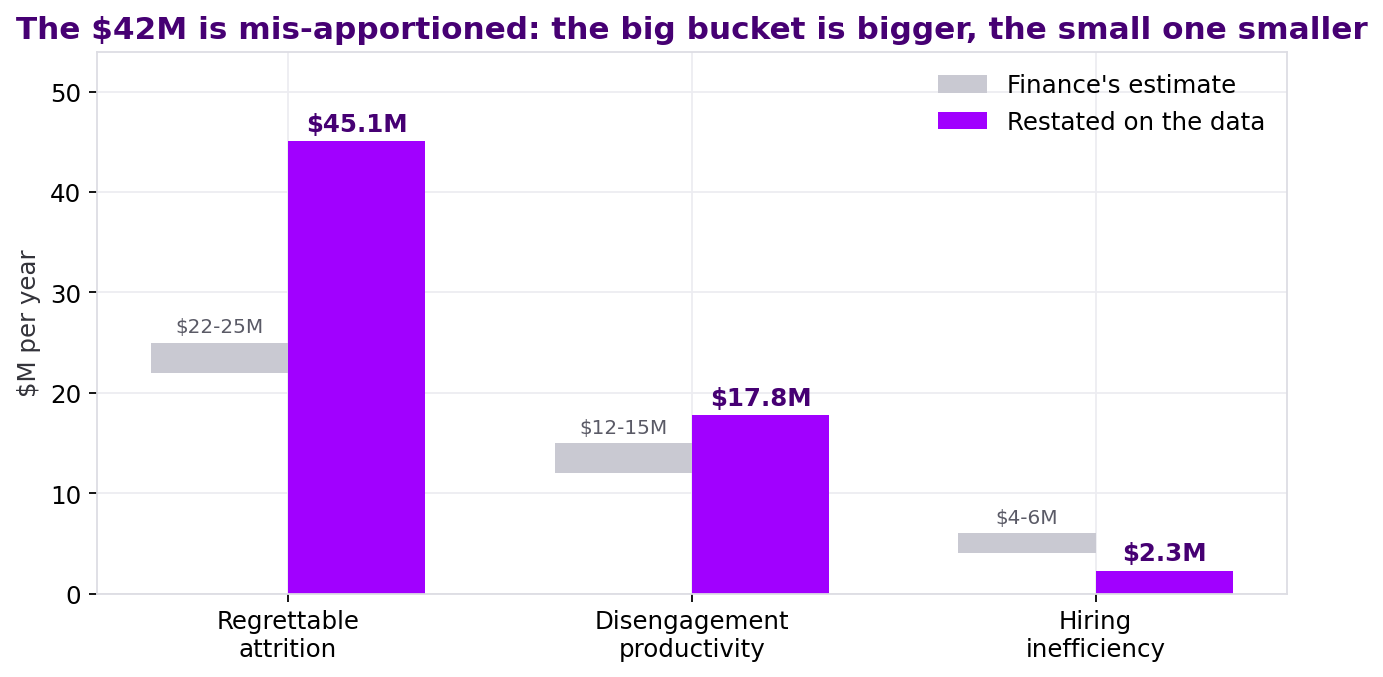
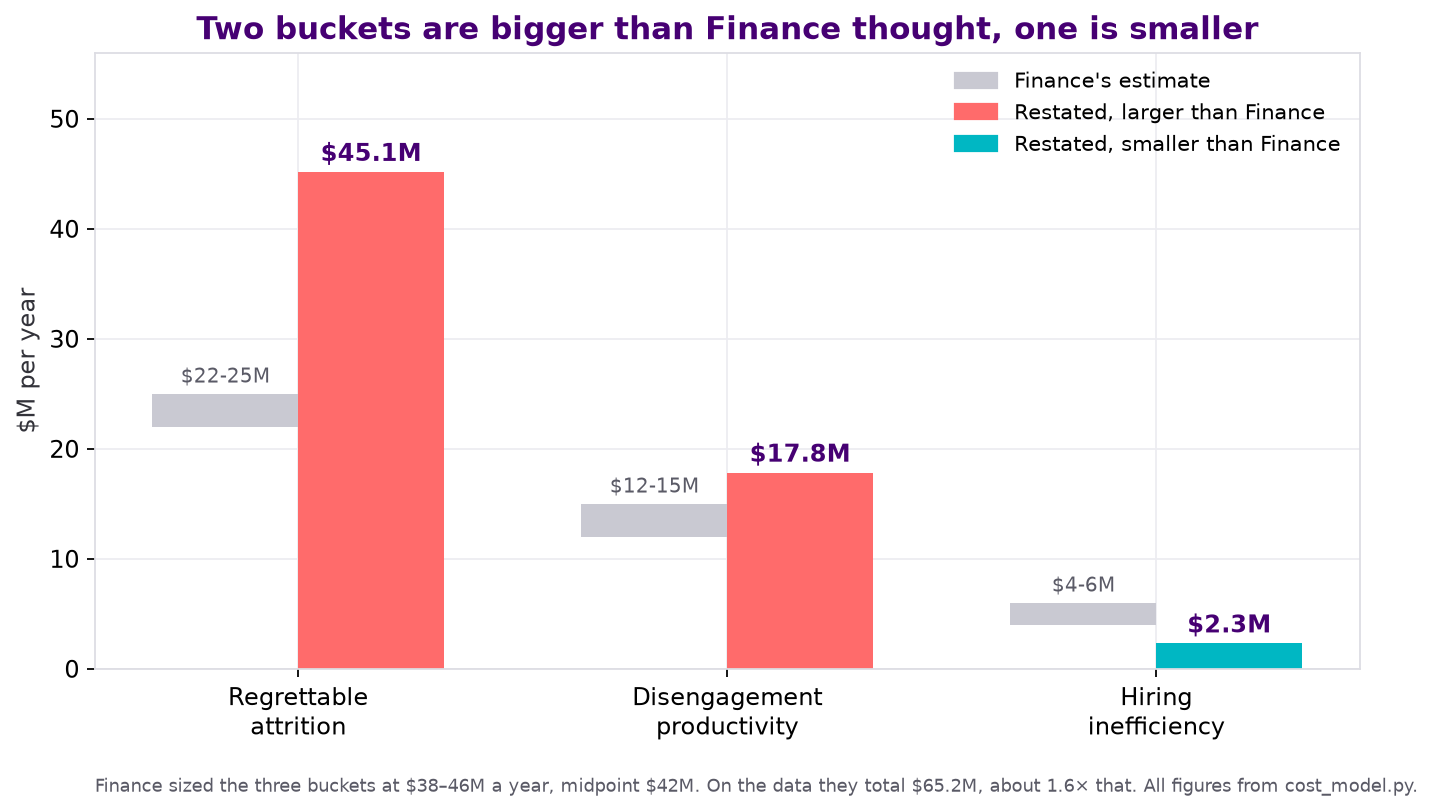
fix(figures): derive E6 bucket values from cost model and show restated total

diff --git a/ethics_finance/make_figures.py b/ethics_finance/make_figures.py
@@ -126,19 +126,46 @@ ax.text(2.62, 1.02, "brief's\nconstants", color=CORAL, fontweight="bold", fontsi
 save(fig, "E5_sensitivity.png")
 
 # 6 -------------------------------------------------- the three buckets restated
-fig, ax = plt.subplots(figsize=(9.6, 4.4))
+# Values come from cost_model.py rather than being typed here, so this chart
+# cannot drift away from the engine the rest of the deck quotes.
+from cost_model import (replacement_cost, disengaged_pool, exits as cm_exits,
+                        HIGH_VALUE, AGENCY_FEE, DIRECT_HIRE_COST, WINDOW_YEARS,
+                        emp as cm_emp, WINDOW_START)
+
+_vol = cm_exits[cm_exits.exit_type == "voluntary"]
+_regrettable = replacement_cost(_vol[_vol.performance_band_at_exit.isin(HIGH_VALUE)]) / 1e6
+_diseng = disengaged_pool()[0] / 1e6
+_ag = cm_emp[(cm_emp.hire_date >= WINDOW_START) & (cm_emp.hire_source == "agency")]
+_hiring = ((_ag.salary * AGENCY_FEE - DIRECT_HIRE_COST).clip(lower=0).sum()
+           / WINDOW_YEARS / 1e6)
+
+fig, ax = plt.subplots(figsize=(10.2, 5.0))
 labels = ["Regrettable\nattrition", "Disengagement\nproductivity", "Hiring\ninefficiency"]
 brief_lo, brief_hi = np.array([22, 12, 4]), np.array([25, 15, 6])
-ours = np.array([45.1, 17.8, 2.3])
+ours = np.array([_regrettable, _diseng, _hiring])
 x = np.arange(3); w = .34
 ax.bar(x - w/2, brief_hi - brief_lo, w, bottom=brief_lo, color="#C9C9D2", label="Finance's estimate")
-ax.bar(x + w/2, ours, w, color=PURPLE, label="Restated on the data")
+ax.bar(x + w/2, ours, w, color=[CORAL if o > h else TEAL for o, h in zip(ours, brief_hi)],
+       label="Restated on the data")
 for i, v in enumerate(ours):
     ax.text(i + w/2, v + 1, f"${v:.1f}M", ha="center", fontweight="bold", color=DEEP)
 for i, (lo, hi) in enumerate(zip(brief_lo, brief_hi)):
     ax.text(i - w/2, hi + 1, f"${lo}-{hi}M", ha="center", fontsize=9, color=GREY)
+
 ax.set_xticks(x); ax.set_xticklabels(labels); ax.set_ylabel("$M per year")
-ax.set_ylim(0, 54); ax.legend(loc="upper right")
-ax.set_title("The $42M is mis-apportioned: the big bucket is bigger, the small one smaller")
+ax.set_ylim(0, 56)
+
+# Coral means the bucket got worse, teal means it got better. Spelling the
+# direction out stops the chart being read as a simple redistribution.
+from matplotlib.patches import Patch
+ax.legend(handles=[Patch(color="#C9C9D2", label="Finance's estimate"),
+                   Patch(color=CORAL, label="Restated, larger than Finance"),
+                   Patch(color=TEAL, label="Restated, smaller than Finance")],
+          loc="upper right", fontsize=9.5)
+ax.set_title("Two buckets are bigger than Finance thought, one is smaller")
+ax.annotate(f"Finance sized the three buckets at $38–46M a year, midpoint $42M. "
+            f"On the data they total ${ours.sum():.1f}M, about {ours.sum()/42:.1f}× that. "
+            f"All figures from cost_model.py.",
+            xy=(0, -0.20), xycoords="axes fraction", fontsize=8, color=GREY)
 save(fig, "E6_buckets_restated.png")
 print("\nDone -> figures_ethics/")
